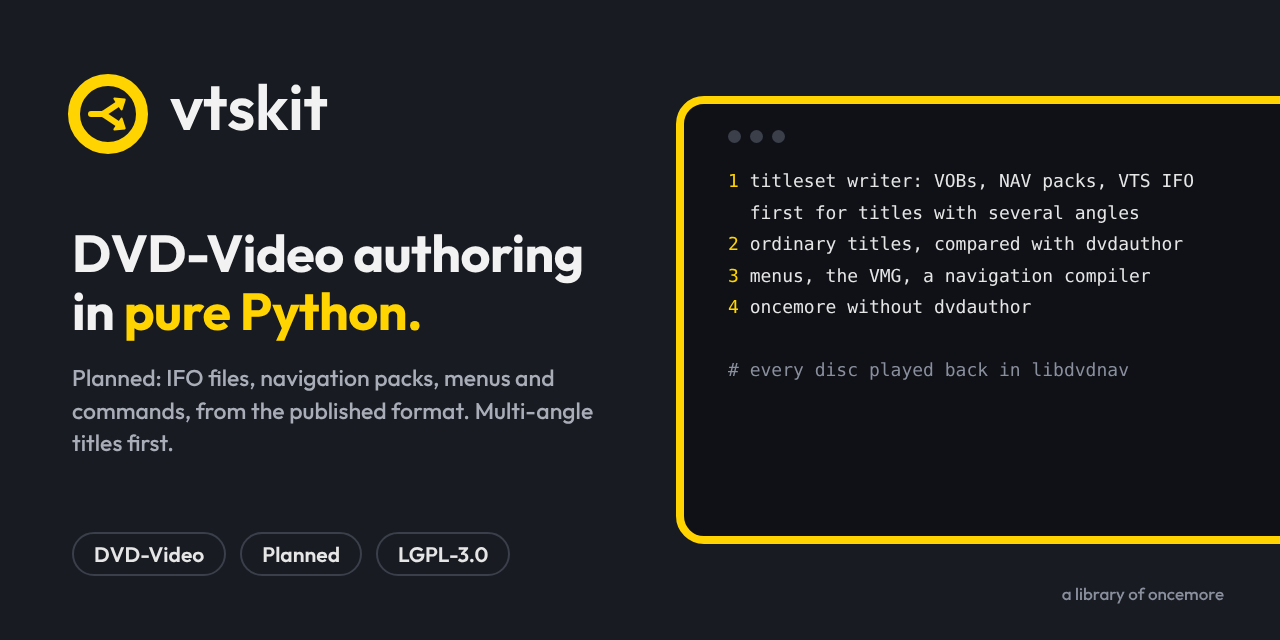
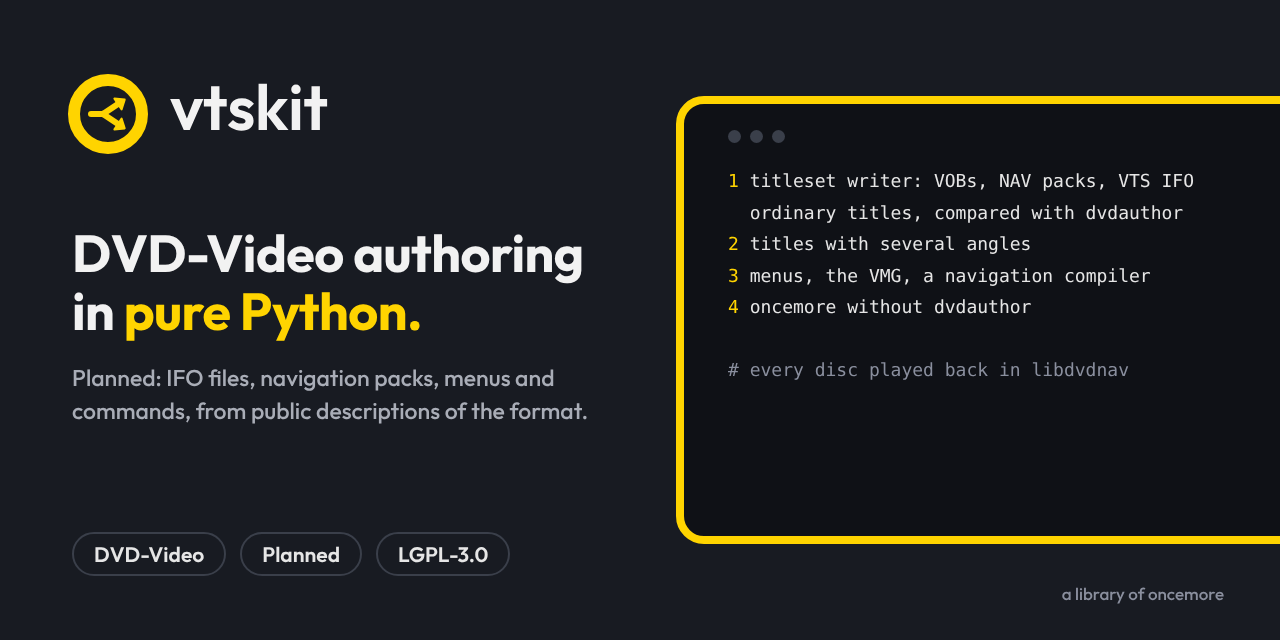
Plan: ordinary titles first, the input, and the sources (#3)
Ordinary titles come before angle blocks (checkable against dvdauthor),
with a small encoder for the navigation commands oncemore's titles carry.
Angle support keeps the VMG's title table and titleset attributes in step.
The input is ffmpeg's -f dvd program stream with empty navigation packs.
The specification is not public: name the public descriptions used, and
observe dvdauthor's output where they are silent, never its source.

Claude-Session: https://claude.ai/code/session_012qiN1Gs9EGtwhDvbTYTcuu

diff --git a/docs/images/social-preview-ja.html b/docs/images/social-preview-ja.html
@@ -22,11 +22,11 @@ p{font-weight:500;font-size:23px;line-height:1.4;color:#a9adb7;margin:22px 0 0}
 .fam{position:absolute;right:56px;bottom:36px;font-size:17px;color:#8a8f9e;font-weight:500}
 </style><body>
 <div class="left"><img class="lockup" src="logo/lockup-dark.svg" alt="vtskit">
-<h1><span style="white-space:nowrap">DVD-Video</span> の<br>オーサリングを、<br>Python だけで<em>一歩ずつ。</em></h1><p>IFO・ナビゲーションパック・メニュー・ナビゲーション命令を、公開仕様から実装。まずはマルチアングルから。</p></div>
+<h1><span style="white-space:nowrap">DVD-Video</span> の<br>オーサリングを、<br>Python だけで<em>一歩ずつ。</em></h1><p>IFO・ナビゲーションパック・メニュー・ナビゲーション命令を、形式の公開資料をもとに実装します。</p></div>
 <div class="pills"><span class="pill">DVD-Video</span><span class="pill">Planned</span><span class="pill">LGPL-3.0</span></div>
 <div class="card"><div class="dots"><i></i><i></i><i></i></div><span class="k">1</span> titleset writer: VOBs, NAV packs, VTS IFO
-  first for titles with several angles
-<span class="k">2</span> ordinary titles, compared with dvdauthor
+  ordinary titles, compared with dvdauthor
+<span class="k">2</span> titles with several angles
 <span class="k">3</span> menus, the VMG, a navigation compiler
 <span class="k">4</span> oncemore without dvdauthor
 

diff --git a/docs/images/social-preview.html b/docs/images/social-preview.html
@@ -22,11 +22,11 @@ p{font-weight:500;font-size:23px;line-height:1.4;color:#a9adb7;margin:22px 0 0}
 .fam{position:absolute;right:56px;bottom:36px;font-size:17px;color:#8a8f9e;font-weight:500}
 </style><body>
 <div class="left"><img class="lockup" src="logo/lockup-dark.svg" alt="vtskit">
-<h1><span style="white-space:nowrap">DVD-Video</span> authoring<br>in <em>pure Python.</em></h1><p>Planned: IFO files, navigation packs, menus and commands, from the published format. <span style="white-space:nowrap">Multi-angle</span> titles first.</p></div>
+<h1><span style="white-space:nowrap">DVD-Video</span> authoring<br>in <em>pure Python.</em></h1><p>Planned: IFO files, navigation packs, menus and commands, from public descriptions of the format.</p></div>
 <div class="pills"><span class="pill">DVD-Video</span><span class="pill">Planned</span><span class="pill">LGPL-3.0</span></div>
 <div class="card"><div class="dots"><i></i><i></i><i></i></div><span class="k">1</span> titleset writer: VOBs, NAV packs, VTS IFO
-  first for titles with several angles
-<span class="k">2</span> ordinary titles, compared with dvdauthor
+  ordinary titles, compared with dvdauthor
+<span class="k">2</span> titles with several angles
 <span class="k">3</span> menus, the VMG, a navigation compiler
 <span class="k">4</span> oncemore without dvdauthor
 

diff --git a/README.md b/README.md
@@ -22,17 +22,41 @@ It grows out of [oncemore](https://github.com/kajisho5/oncemore), step by
 step, each step checked against the same playback tests. The full plan is in
 [oncemore#75](https://github.com/kajisho5/oncemore/issues/75).
 
-1. **A titleset writer:** VOB layout (including interleaved angle blocks),
-   navigation packs (PCI / DSI) and the VTS IFO. It is used first for titles
-   with several angles, which dvdauthor cannot make.
-2. **Ordinary titles** through the same writer, compared with dvdauthor's
-   output.
+1. **A titleset writer, for ordinary titles first:** the VOBs (split at
+   1 GiB), their navigation packs (PCI / DSI) and the VTS IFO with its BUP,
+   compared with what dvdauthor writes for the same title. It includes a
+   small encoder for the navigation commands oncemore's titles carry (pre,
+   post and cell commands, given as numbers, not as a language), so it can
+   replace dvdauthor's titlesets for real discs.
+2. **Titles with several angles,** which dvdauthor cannot make: interleaved
+   angle blocks, and the VMG's title table and titleset attributes kept in
+   step with them.
 3. **Menus, the VMG, and a compiler for DVD navigation commands.**
 4. **oncemore without dvdauthor.**
 
-**Clean implementation:** vtskit is written from public descriptions of the
-DVD-Video format, not from the source of dvdauthor, libdvdread or libdvdnav.
-libdvdnav is only used in the tests, to play the discs vtskit writes.
+Ordinary titles come first because they can be checked against dvdauthor
+field by field, and an angle block cannot be checked before the titleset
+around it is right.
+
+**Input:** the MPEG-2 program stream oncemore's encoder makes (ffmpeg
+`-f dvd`, 2048-byte packs, a navigation pack at every GOP with its PCI and
+DSI left empty). vtskit fills in the navigation packs and keeps every pack
+where it is.
+
+**Clean implementation:** the DVD-Video specification itself is not public
+(it was licensed under NDA by DVD FLLC). vtskit is written from public
+descriptions of the format:
+
+* [DVD-Video information](https://dvdnav.mplayerhq.hu/dvdinfo/) (IFO, PGC,
+  PCI / DSI, the instruction set; its author worked without the
+  specification);
+* [Inside DVD-Video](https://en.wikibooks.org/wiki/Inside_DVD-Video)
+  (Wikibooks, CC BY-SA).
+
+Where they say nothing, the bytes dvdauthor writes are observed; its source
+is not read, nor libdvdread's or libdvdnav's. libdvdnav is only used in the
+tests, through its public API (the function declarations of `dvdnav.h`), to
+play the discs vtskit writes.
 
 ## Support
 
